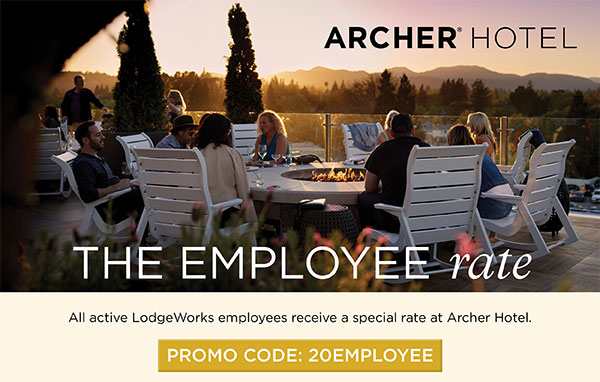
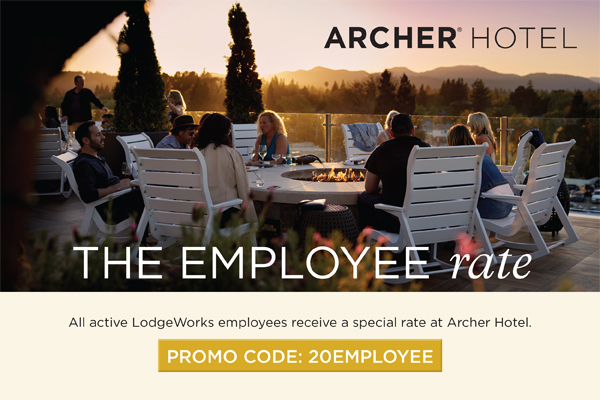
re #2145 New email template for Employee rates

diff --git a/email/employee-rate.php b/email/employee-rate.php
@@ -10,60 +10,70 @@
 <table style="width: 100%;">
     <tr>
         <td align="left">
-            <table style="width: 600px; max-width: 600px; margin: 0; vertical-align: top;" cellspacing="0" cellpadding="0">
+            <table style="background-color: #faf5e5; width: 600px; max-width: 600px; margin: 0; vertical-align: middle;" cellspacing="5" cellpadding="0">
                 <tr>
-                    <td>
+                    <td colspan="3" style="text-align: center">
                         <a href="http://archerhotel.com" target="_blank">
-                            <img src="<?= $siteUrl ?>/images/email/rates/employee/header.jpg" style="display: block; width: auto; max-width: 100%; min-width: 100px;" />
+                            <img src="<?= $siteUrl ?>/images/email/rates/employee/header.jpg" />
                         </a>
                     </td>
                 </tr>
                 <tr>
                     <td>
                         <a href="https://book.archerhotel.com/?configcode=AHGC&hotel=67720&level=hotel&locale=en-US&promo=20EMPLOYEE&themecode=AHCT">
-                            <img src="<?= $siteUrl ?>/images/email/rates/employee/austin.jpg" style="display: block; width: auto; max-width: 100%; min-width: 100px;" />
+                            <img src="<?= $siteUrl ?>/images/email/rates/employee/austin.jpg" />
                         </a>
                     </td>
-                </tr>   
-                <tr>
                     <td>
                         <a href="https://book.archerhotel.com/?configcode=AHGC&hotel=77757&level=hotel&locale=en-US&promo=20EMPLOYEE&themecode=AHCT">
-                            <img src="<?= $siteUrl ?>/images/email/rates/employee/burlington.jpg" style="display: block; width: auto; max-width: 100%; min-width: 100px;" />
+                            <img src="<?= $siteUrl ?>/images/email/rates/employee/burlington.jpg" />
                         </a>
                     </td>
-                </tr>  
-                <tr>
                     <td>
                         <a href="https://book.archerhotel.com/?configcode=AHGC&hotel=76198&level=hotel&locale=en-US&promo=20EMPLOYEE&themecode=AHCT">
-                            <img src="<?= $siteUrl ?>/images/email/rates/employee/florham-park.jpg" style="display: block; width: auto; max-width: 100%; min-width: 100px;" />
+                            <img src="<?= $siteUrl ?>/images/email/rates/employee/florham-park.jpg" />
                         </a>
                     </td>
                 </tr>  
                 <tr>
                     <td>
                         <a href="https://book.archerhotel.com/?configcode=AHGC&hotel=70482&level=hotel&locale=en-US&promo=20EMPLOYEE&themecode=AHCT">
-                            <img src="<?= $siteUrl ?>/images/email/rates/employee/napa.jpg" style="display: block; width: auto; max-width: 100%; min-width: 100px;" />
+                            <img src="<?= $siteUrl ?>/images/email/rates/employee/napa.jpg" />
                         </a>
                     </td>
-                </tr>  
-                <tr>
                     <td>
                         <a href="https://book.archerhotel.com/?configcode=AHGC&hotel=60268&level=hotel&locale=en-US&promo=20EMPLOYEE&themecode=AHCT">
-                            <img src="<?= $siteUrl ?>/images/email/rates/employee/new-york.jpg" style="display: block; width: auto; max-width: 100%; min-width: 100px;" />
+                            <img src="<?= $siteUrl ?>/images/email/rates/employee/new-york.jpg" />
                         </a>
                     </td>
-                </tr>  
-                <tr>
                     <td>
                         <a href="https://book.archerhotel.com/?configcode=AHGC&hotel=5998&level=hotel&locale=en-US&promo=20EMPLOYEE&themecode=AHCT">
-                            <img src="<?= $siteUrl ?>/images/email/rates/employee/redmond.jpg" style="display: block; width: auto; max-width: 100%; min-width: 100px;" />
+                            <img src="<?= $siteUrl ?>/images/email/rates/employee/redmond.jpg" />
                         </a>
                     </td>
-                </tr>                                                                        
+                </tr>   
                 <tr>
-                    <td colspan="2">
+                    <td>
+                        <a href="https://archerhotel.com/tysons">
+                            <img src="<?= $siteUrl ?>/images/email/rates/employee/tysons.jpg" />
+                        </a>
+                    </td>
+                    <td>
+                        <a href="https://archerhotel.com">
+                            <img src="<?= $siteUrl ?>/images/email/rates/employee/brand.jpg" />
+                        </a>
+                    </td>
+                    <td style="background-color: #d8ab27; text-align: center">
+                        <img src="<?= $siteUrl ?>/images/email/rates/employee/message.jpg" />
+                        <a href="https://www.facebook.com/search/top/?q=Archer%20Hotel" target="_blank"><img src="<?= $siteUrl ?>/images/social/facebook.png" /></a>&nbsp;
+                        <a href="https://twitter.com/ArcherHotel" target="_blank"><img src="<?= $siteUrl ?>/images/social/twitter.png" /></a>&nbsp;
+                        <a href="https://www.instagram.com/archerhotels/" target="_blank"><img src="<?= $siteUrl ?>/images/social/instagram.png" /></a>
+                    </td>
+                </tr>                                                                                      
+                <tr>
+                    <td colspan="3">
                         <a href="http://archerhotel.com" target="_blank">
-                            <img src="<?= $siteUrl ?>/images/email/rates/employee/footer.jpg" style="display: block; width: auto; max-width: 100%; min-width: 100px;" />
+                            <img src="<?= $siteUrl ?>/images/email/rates/employee/footer.jpg" />
                         </a>
                     </td>
                 </tr>

diff --git a/email/employee-rate copy.php b/email/employee-rate copy.php
@@ -1,0 +1,75 @@
+<!DOCTYPE HTML PUBLIC "-//W3C//DTD XHTML 1.0 Transitional//EN" "http://www.w3.org/TR/xhtml1/DTD/xhtml1-transitional.dtd">
+<html xmlns="http://www.w3.org/1999/xhtml">
+<head>
+    <title></title>
+    <?php
+    $siteUrl = getenv('siteUrl')
+    ?>
+</head>
+<body style="background-color: #eee; color: #222222; font-family: Helvetica, Arial, sans-serif; font-size: 14px;">
+<table style="width: 100%;">
+    <tr>
+        <td align="left">
+            <table style="width: 600px; max-width: 600px; margin: 0; vertical-align: top;" cellspacing="0" cellpadding="0">
+                <tr>
+                    <td>
+                        <a href="http://archerhotel.com" target="_blank">
+                            <img src="<?= $siteUrl ?>/images/email/rates/emp/header.jpg" style="display: block; width: auto; max-width: 100%; min-width: 100px;" />
+                        </a>
+                    </td>
+                </tr>
+                <tr>
+                    <td>
+                        <a href="https://book.archerhotel.com/?configcode=AHGC&hotel=67720&level=hotel&locale=en-US&promo=20EMPLOYEE&themecode=AHCT">
+                            <img src="<?= $siteUrl ?>/images/email/rates/emp/austin.jpg" style="display: block; width: auto; max-width: 100%; min-width: 100px;" />
+                        </a>
+                    </td>
+                </tr>   
+                <tr>
+                    <td>
+                        <a href="https://book.archerhotel.com/?configcode=AHGC&hotel=77757&level=hotel&locale=en-US&promo=20EMPLOYEE&themecode=AHCT">
+                            <img src="<?= $siteUrl ?>/images/email/rates/emp/burlington.jpg" style="display: block; width: auto; max-width: 100%; min-width: 100px;" />
+                        </a>
+                    </td>
+                </tr>  
+                <tr>
+                    <td>
+                        <a href="https://book.archerhotel.com/?configcode=AHGC&hotel=76198&level=hotel&locale=en-US&promo=20EMPLOYEE&themecode=AHCT">
+                            <img src="<?= $siteUrl ?>/images/email/rates/emp/florham-park.jpg" style="display: block; width: auto; max-width: 100%; min-width: 100px;" />
+                        </a>
+                    </td>
+                </tr>  
+                <tr>
+                    <td>
+                        <a href="https://book.archerhotel.com/?configcode=AHGC&hotel=70482&level=hotel&locale=en-US&promo=20EMPLOYEE&themecode=AHCT">
+                            <img src="<?= $siteUrl ?>/images/email/rates/emp/napa.jpg" style="display: block; width: auto; max-width: 100%; min-width: 100px;" />
+                        </a>
+                    </td>
+                </tr>  
+                <tr>
+                    <td>
+                        <a href="https://book.archerhotel.com/?configcode=AHGC&hotel=60268&level=hotel&locale=en-US&promo=20EMPLOYEE&themecode=AHCT">
+                            <img src="<?= $siteUrl ?>/images/email/rates/emp/new-york.jpg" style="display: block; width: auto; max-width: 100%; min-width: 100px;" />
+                        </a>
+                    </td>
+                </tr>  
+                <tr>
+                    <td>
+                        <a href="https://book.archerhotel.com/?configcode=AHGC&hotel=5998&level=hotel&locale=en-US&promo=20EMPLOYEE&themecode=AHCT">
+                            <img src="<?= $siteUrl ?>/images/email/rates/emp/redmond.jpg" style="display: block; width: auto; max-width: 100%; min-width: 100px;" />
+                        </a>
+                    </td>
+                </tr>                                                                        
+                <tr>
+                    <td colspan="2">
+                        <a href="http://archerhotel.com" target="_blank">
+                            <img src="<?= $siteUrl ?>/images/email/rates/emp/footer.jpg" style="display: block; width: auto; max-width: 100%; min-width: 100px;" />
+                        </a>
+                    </td>
+                </tr>
+            </table>
+        </td>
+    </tr>
+</table>
+</body>
+</html>
